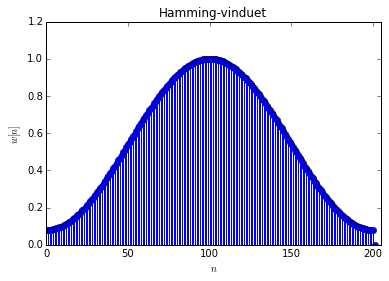
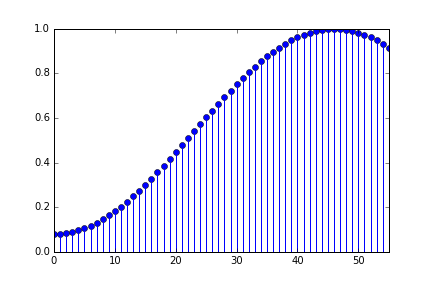
T

diff --git a/Diskret-tids-systemer/Miniprojekt/Rapport/sections/mainmatter/ch4_design.tex b/Diskret-tids-systemer/Miniprojekt/Rapport/sections/mainmatter/ch4_design.tex
@@ -9,19 +9,19 @@ h_d[n] = \begin{cases} \dfrac{\sin\left(\omega_{c_1}\left(n - \frac{M}{2}\right)
 1 - \frac{\omega_{c_2} - \omega_{c_1}}{\pi} \quad &\text{for} \quad n = \frac{M}{2}
 \end{cases}
 \end{align*}
-Dette er implementeret i koden således:\todo{f1 eller o1 - rettes}
+Dette er implementeret i koden således:
 \begin{lstlisting}
 def hd(n,M,f1,f2): 
     hd = np.zeros(len(n))
     for i in range(len(n)):
         if n[i] == M/2:
-            hd[i] = 1 - (o2 - o1)/np.pi
+            hd[i] = 1 - (f2 - f1)/np.pi
         else:
-            hd[i] = (np.sin(o1*(n[i] - M/2.)) / (np.pi*(n[i] - M/2.))) \
-            - (np.sin(o2*(n[i] - M/2.)) / (np.pi*(n[i] - M/2.)))
+            hd[i] = (np.sin(f1*(n[i] - M/2.)) / (np.pi*(n[i] - M/2.))) \
+            - (np.sin(f2*(n[i] - M/2.)) / (np.pi*(n[i] - M/2.)))
     return hd
 \end{lstlisting}
-Fordi impulsresponsen er endelig skal den ideelle impulsrespons ganges med en vinduesfunktion, og dette Fourier-transformeres herefter for at opnå en realistisk frekvens- og amplituderespons. Der er forskellige muligheder for denne vinduesfunktion såsom det rektangulære vindue, Hamming-vinduet, Hann-vinduet og Blackman-vinduet.$^[$\footnote{Disse vinduer er beskrevet på side 559-560 i \textit{Discrete-Time Signal Processing}, Oppenheim \& Schafer (2014).}$^]$ Implementeringen af vinduerne i koden er ganske simpel, og som eksempel ses implementeringen af Hann- og Hamming-vinduet herunder:
+Fordi impulsresponsen er endelig skal den ideelle impulsrespons ganges med en vinduesfunktion, og dette Fourier-transformeres herefter for at opnå en realiserbar frekvens- og amplituderespons. Der er forskellige muligheder for denne vinduesfunktion såsom det rektangulære vindue, Hamming-vinduet, Hann-vinduet og Blackman-vinduet.$^[$\footnote{Disse vinduer er beskrevet på side 559-560 i \textit{Discrete-Time Signal Processing}, Oppenheim \& Schafer (2014).}$^]$ Implementeringen af vinduerne i koden er ganske simpel, og som eksempel ses implementeringen af Hann- og Hamming-vinduet herunder:
 \begin{lstlisting}
 def ha(n,M,a): # Hann-vindue hvis a = 0.5. Hamming-vindue hvis a = 0.54.
     w = np.zeros(len(n))
@@ -33,7 +33,7 @@ def ha(n,M,a): # Hann-vindue hvis a = 0.5. Hamming-vindue hvis a = 0.54.
     return w
 \end{lstlisting}
 
-Grafen for Hamming-vinduet er vist på figur \ref{fig:Hamming} \todo{Overvej dette. \textregistered}.
+Grafen for et Hamming-vindue af orden 50 er vist på figur \ref{fig:Hamming}.
 \begin{figure}[H]
     \centering
     \includegraphics[width = 0.6\textwidth]{figures/Hamming-vindue.PNG}

diff --git a/Diskret-tids-systemer/Miniprojekt/Rapport/sections/mainmatter/chapter4.tex b/Diskret-tids-systemer/Miniprojekt/Rapport/sections/mainmatter/chapter4.tex
@@ -1,5 +1,5 @@
 \chapter{Filtrering af signal}
-I dette kapitel designes et båndstopfilter med endelig impulsrespons (altså et FIR-filter), der har til formål at eliminere den midterste frekvens ved $\omega_2 = \frac{\pi}{2}$ mest muligt og samtidig reducere de øvrige frekvenser ved $\omega_1 = \frac{\pi}{3}$ og $\omega_3 = \frac{3\pi}{4}$ mindst muligt. I kapitlet beskrives først specifikationerne og design af filteret, hvorefter filterets effekt på signalet vurderes. Til sidst perspektiveres der til et IIR-filter som alternativ til FIR-filteret \todo{Overvej dette. \textregistered}.
+I dette kapitel designes et båndstopfilter med endelig impulsrespons (altså et FIR-filter), der har til formål at eliminere den midterste frekvens ved $\omega_2 = \frac{\pi}{2}$ mest muligt og samtidig reducere de øvrige frekvenser ved $\omega_1 = \frac{\pi}{3}$ og $\omega_3 = \frac{3\pi}{4}$ mindst muligt. I kapitlet beskrives først specifikationerne og design af filteret, hvorefter filterets effekt på signalet vurderes. Afslutningsvist forsøges filteret optimeret.
 \input{sections/mainmatter/ch4_specs.tex}
 \input{sections/mainmatter/ch4_design.tex}
 \input{sections/mainmatter/ch4_vur.tex}

diff --git a/Forsøg/copy.py b/Forsøg/copy.py
@@ -277,3 +277,7 @@ elif dataType == "Chords":
     print(max_freq_t1[sted])
     print(max_freq_t2[sted])
     print(max_freq_t3[sted])
+
+l=np.zeros(len(max_freq_t))
+for i in len(max_freq_t)-1:
+    if max_freq_t[i+1] ==    
